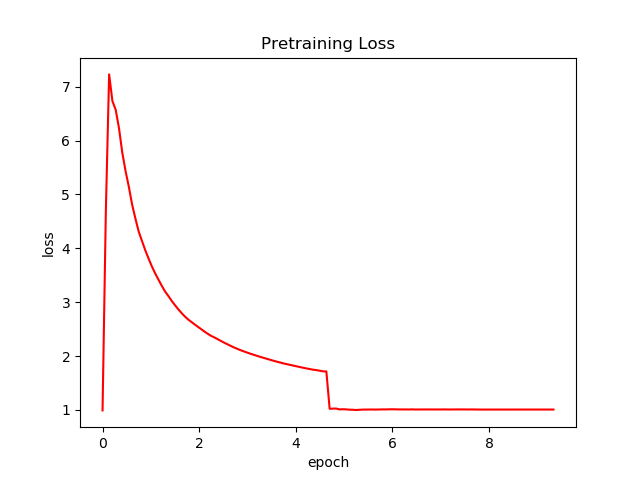
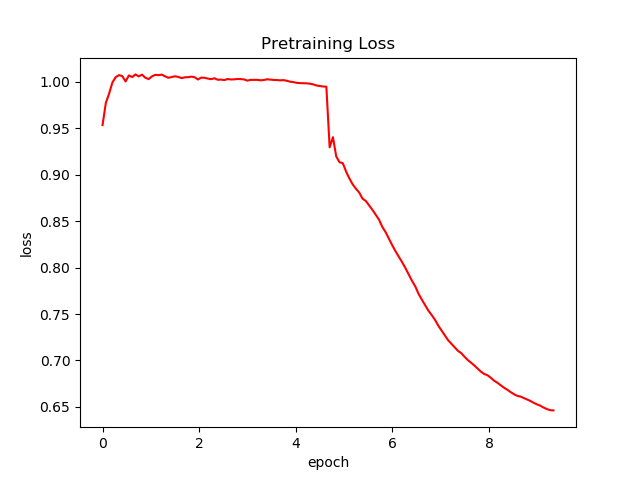
minor tweaks

diff --git a/python/FULL_MODEL_001/Net.py b/python/FULL_MODEL_001/Net.py
@@ -75,7 +75,7 @@ class Net(torch.nn.Module):
         a4 = self.AE_do(F.relu(self.AE_fc4(a3)))
         a5 = self.AE_do(F.relu(self.AE_fc5(a4)))
         a6 = self.AE_do(F.relu(self.AE_fc6(a5)))
-        a6 = a0.reshape(a6.size(0), self.params['NGENES'], 2)
+        a6 = a6.reshape(a6.size(0), self.params['NGENES'], 2)
         return a6
 
     def pretrain_model(self):
@@ -114,7 +114,7 @@ class Net(torch.nn.Module):
         plt.plot((self.params['train_params']['batch_size']/len(self.test_gen.dataset))*np.arange(len(mse)), mse, 'r-')
         plt.xlabel('epoch')
         plt.ylabel('loss')
-        plt.title('Pretraining Loss')
+        plt.title(name)
         plt.savefig(f"{self.params['MODEL_OUT_DIR']}/{self.params['NAME']}/{name}.png")
         plt.close('all')
 

diff --git a/python/FULL_MODEL_001/config.py b/python/FULL_MODEL_001/config.py
@@ -33,7 +33,7 @@ params = {
 'N_DATATYPES' : 7,
 
 'H1' : 2000,
-'H2' : 1000,
+'H2' : 2000,
 'H3' : 100,                # Layer 3 - Dataset Shared
 'DH' : 500,                # Dataset Specific Layer
 
@@ -47,7 +47,7 @@ params = {
 'LR_DECAY_PATIENCE' : 50,       # batches (not epochs)
 'PRETRAIN_EPOCHS' : 1,
 'PRETRAIN_LR' : 1e-1,
-'PRETRAIN_WD' : 0.01,
+'PRETRAIN_WD' : 0.1,
 'PRETRAIN_DO' : 0.9,
 'PRETRAIN_MSE_WEIGHT' : 10,     # Weight applied to target MSE
 # -----------------------------------------------------------------------------
